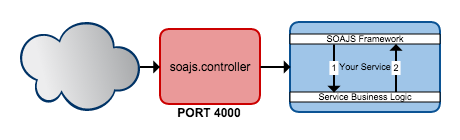
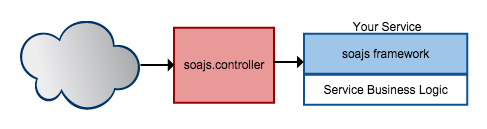
updated deployment overview page content, created new images and removed unneeded images. updated core/service documentation added constructor properties table.

Changed region(s): [[0.0304, 0.124, 0.9739, 0.8682]]

diff --git a/sections/documentation/deployment/all-in-one.html b/sections/documentation/deployment/all-in-one.html
@@ -2,33 +2,26 @@
 <h1>All In One</h1>
 <div class="white-container">
 	<p>
-		In <a href="#/documentation/deployment/overview">Overview</a> we showed the below diagram and mentioned the technologies needed to get SOAJS up and running on either one machine or a cloud. In this Section we will demonstrate how to install SOAJS and these needed technologies as well as how to configure them all on one machine thus the term <b>All In One</b>.<br />
-		<img ng-src="images/documentation/deployment-pre-overview.png" class="img-margin-t-b" /><br /><br />
-		SOAJS is designed to work in a cloud environment meaning its services should be spread on different nodes. Installing everything on one machine is considered best practice in the case of a development environment so that the developer can work and monitor all in one place. Once you finish this section, the diagram below that was mentioned previously in overview will be installed and running on one machine.<br />
-		<img ng-src="images/documentation/deployment-overview3.png" class="img-margin-t-b" /><br /><br />
+		In <a href="#/documentation/deployment/overview">Overview</a> we showed the below diagram and mentioned the technologies needed to get SOAJS up and running on either one machine or a cloud. In this Section we will demonstrate how to install SOAJS and these technologies as well as how to configure them all on one machine thus the term <b>All In One</b>.<br />
+		<img ng-src="images/documentation/deployment-aio.png" class="img-margin-t-b" /><br /><br />
+		SOAJS is designed to work in a cloud environment meaning its services should be spread on different nodes. Installing everything on one machine is considered best practice in the case of a development environment so that the developer can work in one place.<br />
+		When deploying SOAJS on one machine, The controller, oauth, dashboard and urac services are common. The Urac will have at least 2 tenants; one tenant provides access to the dashboard service to manage the core database content and the other tenants will be specific to the services they have access to such as example 03 and example 04.<br />
+		Another important common feature is that both CORE_PROVISION and CORE_SESSION are also common but dashboard_urac and tenantname_urac database are separate where dashboard_urac contains user records that can access the database service to manage it and tenantname_urac contains user records for other services.
 	</p>
+	<br/>
 	<hr/>
 	<h3>Installation</h3>
 	<p>
-		You can install SOAJS in full on one machine. Two methods are provided to install SOAJS.
+		You can install SOAJS and all its features on one machine either by using <a href="http://www.docker.com" target="_blank">Docker</a> or manually. We suggest you create the following folder schema to place SOAJS and its components:
+	</p>
+	<pre><code class="bash">$ mkdir -p /opt/soajs/node_modules/</code></pre>
+	<p>
+		The above command will create a folder on the root level named <b>opt</b> with <b>soajs</b> folder inside it and <b>node_modules</b> folder inside <b>soajs</b>. When you install soajs in the next steps, all the core modules will be located in node_modules folder. This way when you create your services, simply require soajs in your code and it will be loaded.<br />
+		Now install soajs via one of the 2 methods below:<br /><br />
 	</p>
 	<h4>Docker:</h4>
 	<div class="redFlag">Will be completed soon.</div>
-	<p>
-		SOAJS can be installed using <a href="http://www.docker.com" target="_blank">Docker</a>. Docker will provide you with an image that contains the required technologies installed and pre-configured as well as SOAJS components ready to be used. Once you install SOAJS via Docker, simply navigate to the services and start them.<br />
-		Start by installing Docker on your machine so you can download the image.
-		<pre><code class="bash">$ wget -qO- https://get.docker.com/ | sh</code>
-		</pre>
-		Once Docker is installed, use it to download and install the pre-configured all in one image of SOAJS.
-		<pre><code class="bash">$ docker run --name soajs-allinone --link soajs-allinone-link</code>
-		</pre>
-		<div class="redFlag">
-			do we want to use docker compose as well?<br />
-			if yes maybe we can put the docker.yml file in soajs.utilities/deployment/allinone/docker.yml
-		</div><br />
 
-		When you install SOAJS all in one via Docker, all the configuration steps are taken care of and SOAJS should run right after installation. To learn more about the configuration steps, please jump to the configuration section below where we explain how to configure the servers, the database, nginx ... etc in detail. The configuration can be updated at any time and regardless of the installation method used. This way you will be able to modify the configuration created via Docker installation or after manual installation.
-	</p>
 	<br />
 	<h4>Manual Installation:</h4>
 	<p>
@@ -41,15 +34,8 @@ $ apt-get install mongodb
 $ apt-get install nodejs
 
 # install Nginx latest stable version
-$ apt-get install nginx</code>
-	</pre>
+$ apt-get install nginx</code></pre>
 	<p>
-		Now that the needed technologies are installed, we suggest you create the following folder schema to place SOAJS and its components:
-	</p>
-	<pre><code class="bash">$ mkdir -p /opt/soajs/node_modules/</code></pre>
-	<p>
-		The above command will create a folder on the root level named <b>opt</b> with <b>soajs</b> folder inside it and <b>node_modules</b> folder inside <b>soajs</b>. When you install soajs in the next steps, all the core modules will be located in node_modules folder. This way when you create your services, simply require soajs in your code and it will be loaded.<br />
-
 		The next step requires we install the core components of soajs by running the following commands:
 	</p>
 	<pre><code class="bash">$ cd /opt/soajs/node_modules/
@@ -69,22 +55,20 @@ $ npm install soajs.oauth
 #install the sample data
 $ npm install soajs.mongodb.data
 
-#install the utilities
+# go up one folder, back to /op/soajs/
 $ cd /opt/soajs/
+
+#install the examples
+$ npm install soajs.examples
+
+#install the utilities
 $ npm install soajs.utilities
 </code></pre>
 	<p>
 		When you are done with the NPM command above you should have a folder schema that resembles the following:
 		<div ng-init="loadCode(path + 'deployment/all-in-one/folder-list.txt', 'folder-list');"></div>
 		<div id="folder-list"></div>
-		To verify that the modules are installed correctly with their dependencies, once you are done with the above steps, simply run the following command:
 	</p>
-	<pre><code class="bash">$ npm list</code></pre>
-	<p>
-		This command will list all the modules inside node_modules and their dependencies structured in a tree view format and you can check that ur modules are all there.
-	</p>
-	<div ng-init="loadCode(path + 'deployment/all-in-one/tree-npm-list.txt', 'tree-npm-list');"></div>
-	<div id="tree-npm-list"></div>
 	<br/>
 	<hr/>
 	<h3>Configuration &amp; Startup</h3>
@@ -95,7 +79,7 @@ $ npm install soajs.utilities
 	<p>
 		Let's start by running MongoDB, configure SOAJS registry to find it and thus connect to it and import some sample data to use later on. Open your terminal and start MongoDB:
 		<pre><code class="bash">$ mongod</code></pre>
-		The above step will start MongoDB on your local machine which becomes accessible via port 27017. The terminal you used to run MongoDB in can no longer be closed, closing it will stop MongoDB server. Test that MongoDB is running by opening a second terminal and connecting to the server:
+		The above step will start MongoDB on your local machine which becomes accessible via port 27017, then connect to the MongoDB server:
 		<pre><code class="bash">$ mongo
 $ mongo > show dbs</code></pre>
 		The above 2 commands, connect to mongo and run command show databases which will list the database inside mongo. If any of the above command did not run or return the expected response, please make sure you installed MongoDB correctly or checkout the forums and troubleshooting sections of mongo on the <a href="http://www.mongodb.org" target="_blank">Official MongoDB Website</a>.<br /><br />
@@ -161,7 +145,23 @@ tenants
 		When Nginx starts, test the configuration you just created by opening your browser and invoking 2 domains: <b>api.soajs.org</b> and <b>dashboard.soajs.org</b>. Nginx will reply with a <b>502 Bad Gateway</b> Error instead of Server not Found. Till this point, this is normal because we haven't started any service yet, but the important thing is that Nginx is now redirecting the requests to a local SOAJS server assuming that the later is up and running.
 	</p>
 	<br/>
-	<h4>Step 3: SOAJS Services</h4>
+	<h4>Step 3: Point out the Registry Profile</h4>
+	<p>
+		The next step requires that you specify the path of the project to load the environment and registry information for the services to work. As mentioned in the <a href="#/documentation/core/registry">Registry</a>, SOAJS supports multiple projects, and in this case we need to use the default project that contains the environment variables that we need for the All In One Setup. Navigate to soajs.utilities/deployment/allinone/profiles/.
+	</p>
+	<pre><code class="bash"># set the environment name to dev
+$ export SOAJS_ENV=dev
+
+# set the project name to default
+$ export SOAJS_PRJ=default
+
+# point out the location of the project
+$ export SOAJS_REGDIR=/opt/soajs/soajs.utilities/deployment/allinone/</code></pre>
+	<p>
+		The above variables will tell soajs the location of the profile you want to use and what is the environment and registry information that should be loaded.
+	</p>
+	<br/>
+	<h4>Step 4: SOAJS Services</h4>
 	<p>
 		So far we configured all the prerequisites that SOAJS needs to work and tested them. Let's start the services one at a time:
 		<pre><code class="bash">#navigate to soajs.controller in a new terminal
@@ -178,12 +178,22 @@ $ node .
 
 #navigate to soajs.dashboard in a new terminal
 $ cd /opt/soajs/node_modules/soajs.dashboard/service
-$ node .</code>
-		</pre>
-		When you run node . in every terminal you opened to start the above service, the terminal cannot be close or the service will stop running. All four services are now running, let's make some test calls and when done, use the dashboard to login.
+$ node .
+
+#navigate to soajs.examples and start the examples
+$ cd /opt/soajs/soajs.examples/
+$ cd /example01
+$ node .
+$ cd /example02
+$ node .
+$ cd /example03
+$ node .
+$ cd /example04
+$ node .</code></pre>
+	When you run node . in every terminal you opened, you are starting the service. All the services are now running, let's make some test calls and when done, use the dashboard to login.
 	</p>
 	<br/>
-	<h4>Step 4: Testing the services</h4>
+	<h4>Step 5: Testing the services</h4>
 	<p>
 		We mentioned in the <a href="#/documentation/services/controller">Controller</a> section that you can run a maintenance check on any service built with SOAJS. When a service starts, it will listen to two ports: the default port and the maintenance port.<br />
 		Let's run some maintenance heartbeat requests to see the status of our services:
@@ -191,7 +201,8 @@ $ node .</code>
 $ curl -X GET "http://127.0.0.1:5000/heartbeat"
 {"result":true,"ts":1427373613796,"service":{"service":"CONTROLLER","type":"rest","route":"/heartbeat"}}
 </code></pre>
-		We just ran a heartbeat check on the controller. The controller runs on port 4000 making his maintenance port 4000 + 1000 = 5000. Make a request to port 5000 followed by /hearbeat as a path parameter. You can perform the same operation for any other service. In the <a href="#/documentation/core/registry">registry</a> of SOAJS under dev environment, the services are configured to run on specific port numbers. The controller uses 4000, Urac 4001, oAuth 4002 and Dashboard 4003. This means their maintenance ports are equal to 5000, 5001, 5002, 5003. Let's run the heartbeat on every service other than the controller:
+		We just ran a heartbeat check on the controller. The controller runs on port 4000 making his maintenance port 4000 + 1000 = 5000. Make a request to port 5000 followed by /hearbeat as a path parameter. You can perform the same operation for any other service. In the <a href="#/documentation/core/registry">registry</a> of SOAJS under dev environment, the services are configured to run on specific port numbers. The controller uses 4000, Urac 4001, oAuth 4002 and Dashboard 4003. This means their maintenance ports are equal to 5000, 5001, 5002, 5003. The same applies on the examples, their default ports are 4010, 4011, 4012, 4013 making their maintenance ports equal to 5010, 5011, 5012, 5013.<br />
+		Let's run the heartbeat on every service other than the controller:
 		<pre><code class="bash"># in the same terminal
 $ curl -X GET "http://127.0.0.1:5001/heartbeat"
 {"result":true,"ts":1427373613796,"service":{"service":"URAC","type":"rest","route":"/heartbeat"}}
@@ -201,6 +212,18 @@ $ curl -X GET "http://127.0.0.1:5002/heartbeat"
 
 $ curl -X GET "http://127.0.0.1:5003/heartbeat"
 {"result":true,"ts":1427373613796,"service":{"service":"DASHBOARD","type":"rest","route":"/heartbeat"}}
+
+$ curl -X GET "http://127.0.0.1:5010/heartbeat"
+{"result":true,"ts":1427373613796,"service":{"service":"EXAMPLE01","type":"rest","route":"/heartbeat"}}
+
+$ curl -X GET "http://127.0.0.1:5011/heartbeat"
+{"result":true,"ts":1427373613796,"service":{"service":"EXAMPLE02","type":"rest","route":"/heartbeat"}}
+
+$ curl -X GET "http://127.0.0.1:5012/heartbeat"
+{"result":true,"ts":1427373613796,"service":{"service":"EXAMPLE03","type":"rest","route":"/heartbeat"}}
+
+$ curl -X GET "http://127.0.0.1:5013/heartbeat"
+{"result":true,"ts":1427373613796,"service":{"service":"EXAMPLE04","type":"rest","route":"/heartbeat"}}
 </code></pre>
 		HOUSTON WE HAVE LIFTOFF!!!
 	</p>
@@ -208,7 +231,9 @@ $ curl -X GET "http://127.0.0.1:5003/heartbeat"
 	<hr/>
 	<p>
 		Our services are healthy, up and running and we already imported the sample data to the database so let's stop with the curl commands and head on to the dashboard GUI, login and have some fun. In your browser, open <a href="http://dashboard.soajs.org" target="_blank">http://dashboard.soajs.org</a>, login with username: <b>admin</b> and password: <b>password</b>. Once inside, change these credentials in Edit Profile section, you can also navigate through the sections of the dashboard to manage tenants, products and other information as explained in <a href="#/documentation/services/dashboard-service">Dashboard Services</a> and <a href="#/documentation/ui/dashboard-setup">Dashboard UI</a>.<br /><br />
-		SOAJS is now running with all its services on your machine, you can begin creating your services. Whenever you finish a service simply run it and it will be automatically detected and accessible via the controller. If you are not familiar with how to create a service, simply jump to <a href="#/getStarted">Get Started</a> where we explain 4 different types of services. The image below explains how your service will be integrated with the remaining services that you ran with the above command.
-		<img ng-src="images/documentation/deployment-overview4.png" style="max-width:95%" class="img-margin-t-b" />
+		SOAJS is now running with all its services on your machine, you can begin creating your services just like the examples are built. Create a folder for every service next to soajs.examples and add your code there. Check how to <a href="#/documenation/core/service">Create a service</a> in the documentation section and you can read more about the examples under <a href="#/getStarted">Get Started</a>.<br /><br />
+		Whenever you finish a service simply run it and because you have to add an entry for it in the registry, execute the maintenance operation <b>reloadRegistry</b> just like you did for <b>heartbeat</b> above in the controller. The controller will reload the registry that contains your new service information and you service will be automatically detected and accessible via the controller.
+		<pre><code class="bash">$ curl -X GET "http://127.0.0.1:5000/reloadRegistry"</code></pre>
+		<img ng-src="images/documentation/deployment-aio2.png" class="img-margin-t-b" />
 	</p>
 </div>

diff --git a/sections/documentation/deployment/overview.html b/sections/documentation/deployment/overview.html
@@ -2,14 +2,11 @@
 <h1>Deployment Overview</h1>
 <div class="white-container">
 	<p>
-		SOAJS refers to Service Oriented Architecture in JavaScript. The framework is built on top of NodeJs, its data layer is built on top of MongoDB, uses HAproxy to create awareness among its services and finally Nginx is used for the front and entry layer.<br/>
+		SOAJS means to Service Oriented Architecture JavaScript. The framework is built on top of NodeJs, its data layer is built on top of MongoDB, HAproxy is there to create awareness among services and finally Nginx is used as the entry layer.<br/>
 		<img ng-src="images/documentation/deployment-overview.png"/>
 	</p>
-	<hr/>
-	<h3>3rd Party Technologies</h3>
-
 	<p>
-		As mentioned above, SOAJS requires some technologies to be installed on the machine along with it. Make sure you have these technologies installed and available on your machine:
+		SOAJS requires the following 3rd party technologies to be installed on the machine:
 	</p>
 	<ul>
 		<li><a href="http://www.mongodb.org" target="_blank">MongoDB</a> ( version 2.6.7 or higher)</li>
@@ -40,7 +37,7 @@
 			</tr>
 			<tr class="odd">
 				<td width="20%"><b>soajs.oauth</b></td>
-				<td>Security service, can be used to protect your service using oAuth 2.0</td>
+				<td>Security service, can be used to protect your services using oAuth 2.0</td>
 			</tr>
 			<tr class="even">
 				<td width="20%"><b>soajs.urac</b></td>
@@ -48,11 +45,11 @@
 			</tr>
 			<tr class="odd">
 				<td width="20%"><b>soajs.examples</b></td>
-				<td>Examples Package, contains 4 examples going from basic service example to fully advanced featured service.</td>
+				<td>Examples Package, contains 4 examples going from basic service example to fully advanced service example.</td>
 			</tr>
 			<tr class="even">
 				<td width="20%"><b>soajs.dashboard</b></td>
-				<td>Dashboard Service, provides access to core database of SOAJS, enables management of tenants, products, environments and oAuth accounts.</td>
+				<td>This is the admin dashboard for soajs, enables you to configure and manage your services using a UI.</td>
 			</tr>
 		</tbody>
 	</table>
@@ -61,23 +58,24 @@
 	<p>
 		<img ng-src="images/documentation/basic_service.png" class="image-right"/>
 		Building a basic SOAJS service requires only two of the above mentioned packages: <a href="#/documentation">Framework</a> and <a href="#/documentation/services/controller">Controller</a>.<br />
-		You need the framework to build your service and you need the controller so it can forward the requests to your services. This scenario is explained in depth in <a href="#/getStarted">Get Started</a> / <a href="#/getStarted/example01">Example 01</a>.<br />
-		When the request reaches your services, it passes through the framework first, SOAJS does its magic on the arriving data, then gives you that data along with additional tools to use. Run the data through the business logic of your service, then pass it back to the framework so it can formulate a response out of it and return it to the sender.
+		You need the framework to build your service and you need the controller so it can forward the requests to your service. This scenario is explained in depth in <a href="#/getStarted">Get Started</a> / <a href="#/getStarted/example01">Example 01</a>.<br />
+		When the request reaches your service, SOAJS framework captures the request first, executes the needed features based on how you configured soajs framework for this service and throws an error or hands over the request to your service business logic.
 	</p>
 	<br />
-	<h4>Secured Service</h4>
+	<h4>Basic Service with oAuth</h4>
 	<p>
-		You can always protect your service by installing the oauth package from the list. This way your service becomes accessible only to logged in oauth users. When the request is made to your service, the controller first forward the request to the oauth service for security checking, if ok, the request is then forwarded to your service.<br />
-		This scenario is explained in depth in <a href="#/getStarted">Get Started</a> / <a href="#/getStarted/example02">Example 02</a> and <a href="#/getStarted/example04">Example 04</a>. Example 02, transforms a basic service to a protected service by oauth whereas Example 04 goes much deeper and protects a multitenant service with oauth.<br />
+		This is exactly like the previous basic service example but with oauth turned on.<br />
+		This scenario is explained in depth in <a href="#/getStarted">Get Started</a> / <a href="#/getStarted/example02">Example 02</a> and <a href="#/getStarted/example04">Example 04</a>. If you attempt to directly hit the api of either Example 02 or Example04 without providing an access_token, the request will be rejected. You will need to request a token from the oauth service first, and provide it in the consecutive requests to Example 02 and 04 services.
+		<br />
 		<img ng-src="images/documentation/secured_service.png"/><br />
-		To configure your service to be protected by oauth, set the property oauth to true while creating a new instance of it.<br />
+		To configure your service to be protected by oauth, set the property oauth to true.<br />
 		<a href="#/documentation/core/service">Click Here</a> to see the list of properties a service can use when you create it with SOAJS.
 	</p>
 	<br/>
 	<hr/>
 	<h3>Data Layer</h3>
 	<p>
-		The data layer of soajs is built on top of MongoDB and uses the Two databases: CORE_PROVISION & CORE_SESSION
+		The data layer of soajs framework is built on top of MongoDB and uses two databases: CORE_PROVISION & CORE_SESSION
 	</p>
 	<h4>CORE_PROVISION</h4>
 	<img ng-src="images/documentation/core_provision.png" class="image-right" />
@@ -112,6 +110,7 @@
 		</tbody>
 	</table>
 	<br/><br/>
+	<h4>CORE_SESSION</h4>
 	<img ng-src="images/documentation/core_session.png" class="image-right" />
 	<table class="myTable">
 		<thead>
@@ -136,21 +135,14 @@
 	</p>
 	<br/>
 	<hr/>
-	<h3>Services and their Data Layer</h3>
+	<h3>SOAJS Services and their appropriate Data Layer</h3>
 	<p>
-		SOAJS core services use the data layer differently. Not all services access all the collections, some simply read from it and some add and modify data in the collections. Let's go over the data layer of each service that comes with soajs and the relation between your service and them.
+		We used SOAJS framework and created services that we call the SOAJS core services. Let us go over each one of them and explain their approriate data layer.
 	</p>
 
 	<h4>Controller Service</h4>
 	<p>
-		<img ng-src="images/documentation/controller_service.png" class="image-right"/><br />
-		The controller is the gateway to soajs services. It reads and compares the information in the request with that in CORE_PROVISION. Information like tenant keys device and geo security as well as Access permissions is loaded from the database and compared.
-	</p>
-	<br/><br/>
-	<h4>Dashboard Service</h4>
-	<p>
-		<img ng-src="images/documentation/dashboard_service.png" class="image-right"/><br />
-		The dashboard services, manages the information inside CORE_PROVISION collections. This service is responsilbe for creating environment, products, tenants and oauth users records.
+		The controller is the gateway to soajs services. It receives the request, runs some validation steps and forwards the request to your service. The controller does not require any data layer.
 	</p>
 	<br/><br/>
 	<h4>oAuth Service</h4>
@@ -163,6 +155,12 @@
 	<p>
 		<img ng-src="images/documentation/urac_service.png" class="image-right"/><br />
 		The urac services, reads the tenant information to determine if the provided key exists and has can access the service. Now that it knows the name of the tenant that the given key belongs to, all consequent requests are inserted/updated in a new database named after the tenant: TENANTNAME_URAC.
+	</p>
+	<br/><br/>
+	<h4>Dashboard Service</h4>
+	<p>
+		<img ng-src="images/documentation/dashboard_service.png" class="image-right"/><br />
+		The dashboard services, manages the information inside CORE_PROVISION collections. This service is responsilbe for creating environment, products, tenants and oauth users records.
 	</p>
 	<br/><br/>
 	<h4>Examples Service</h4>
